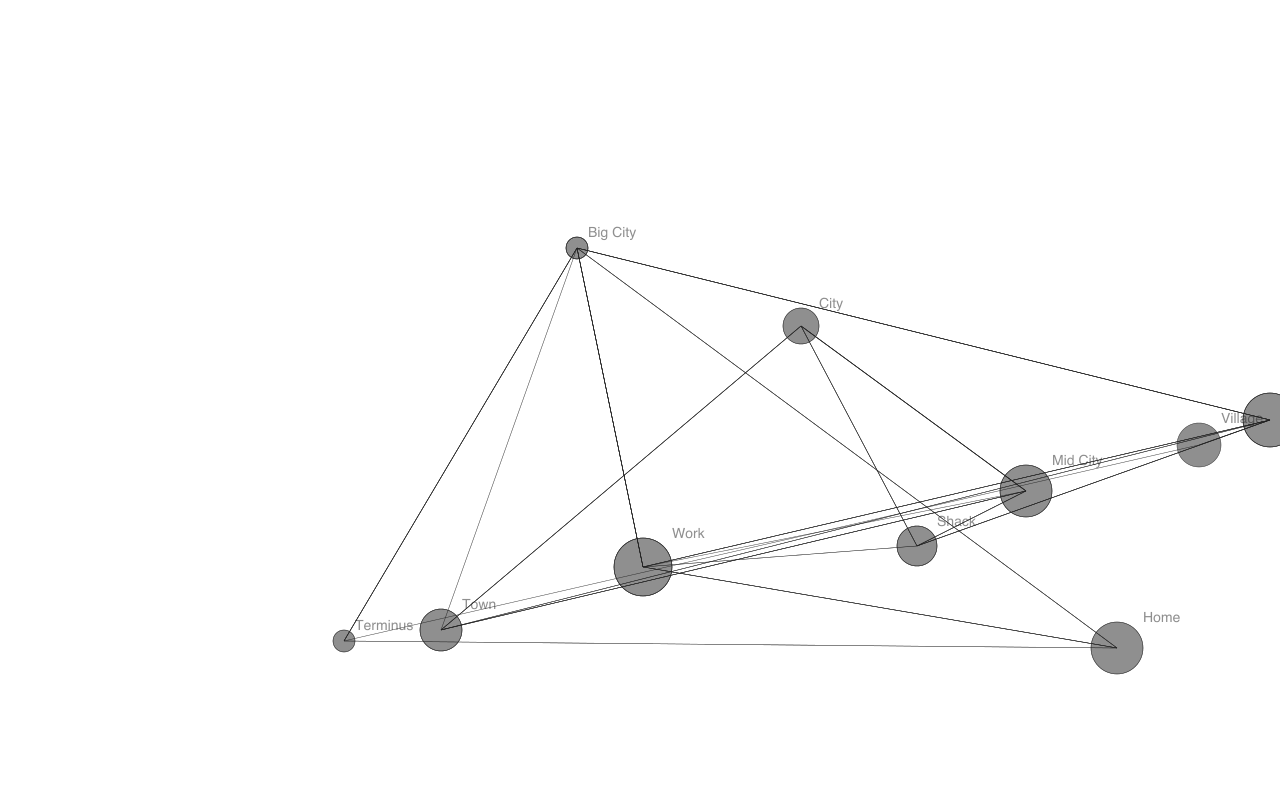
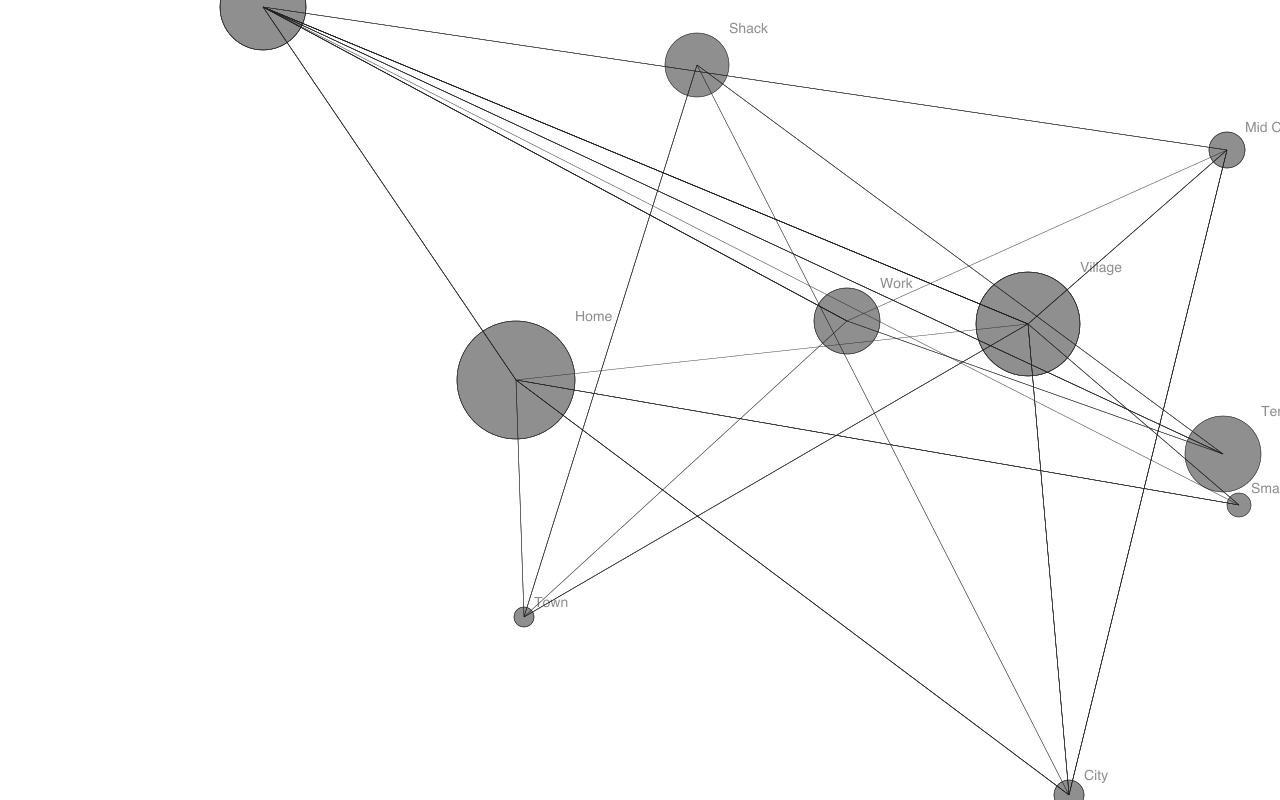
updates

diff --git a/lib/binary-tree.js b/lib/binary-tree.js
@@ -1,0 +1,161 @@
+var BinaryTree = function() {
+	this._root = null;
+};
+
+BinaryTree.prototype.add = function(value) {
+	var node = {
+		value: value,
+		left: null,
+		right: null
+	};
+	var current;
+
+	if (this._root === null) {
+		this._root = node;
+	} else {
+
+		while (true) {
+
+			current = this._root;
+
+			if (value < current.value) {
+				if (current.left === null) {
+					current.left = node;
+					break;
+				} else {
+					current = current.left;
+				}
+
+			} else if (value > current.value) {
+				if (current.right === null) {
+					current.right = node;
+					break;
+				} else {
+					current = current.right;
+				}
+			} else {
+				break;
+			}
+
+		}
+
+	}
+
+};
+BinaryTree.prototype.remove = function(value) {
+	var found = false;
+	var parent = null;
+	var current = this._root;
+	var childCount;
+	var replacement;
+	var replacementParent;
+
+	while (!found && current) {
+		if (value < current.value) {
+			parent = current;
+			current = current.left;
+		} else if (value > current.value) {
+			parent = current;
+			current = current.right;
+		} else {
+			found = true;
+		}
+
+		if (found) {
+			childCount = (current.left !== null ? 1 : 0) + (current.right !== null ? 1 : 0);
+			if (current === this._root) {
+				switch (childCount) {
+					case 0:
+						this._root = null;
+						break;
+					case 1:
+						this._root = (current.right === null ? current.left : current.right);
+						break;
+					case 2:
+						// 
+						break;
+				}
+			} else {
+				switch(childCount){
+					case 0:
+						if (current.value < parent.value) {
+							parent.left = null;
+						} else {
+							parent.right = null;
+						}
+						break;
+					case 1:
+						if (current.value < parent.value) {
+							parent.left = (current.left === null ? current.right : current.left);
+						} else {
+							parent.right = (current.left === null ? current.right : current.left);
+						}
+						break;
+					case 2:
+						break;
+				}
+			}
+		};
+	}
+};
+BinaryTree.prototype.contains = function(value) {
+	var found = false;
+	var current = this._root;
+
+	while (!found && current) {
+		if (value < current.value) {
+			current = current.left;
+		} else if (value > current.value) {
+			current = current.right;
+		} else {
+			found = true;
+		}
+	}
+
+	return found;
+};
+BinaryTree.prototype.traverse = function(process) {
+
+	function inOrder(node) {
+		if (node) {
+			if (node.left !== null) {
+				inOrder(node.left)
+			}
+
+			process.call(this, node);
+
+			if (node.right !== null) {
+				inOrder(node.right);
+			};
+
+		};
+	}
+
+	inOrder(this._root);
+
+};
+BinaryTree.prototype.size = function() {
+	var size = 0;
+
+	this.traverse(function(node) {
+		size++;
+	});
+
+	return size;
+};
+
+BinaryTree.prototype.toArray = function() {
+	var results = [];
+
+	this.traverse(function(node) {
+		results.push(node.value);
+	});
+
+	return results;
+};
+
+BinaryTree.prototype.toString = function() {
+	return this.toArray().toString();
+};
+
+module.exports = BinaryTree;

diff --git a/createMap.js b/createMap.js
@@ -25,12 +25,16 @@ var dims = {
 	height: 800
 };
 
+
+var BinaryTree = require('./lib/binary-tree');
+
 for (var route in routes){
 	if (!routes.hasOwnProperty(route)) {
 		continue;
 	};
 
 	var location = routes[route];
+
 	ctx.fillStyle = 'rgba(32,32,32,0.5)';
 	ctx.beginPath();
 	ctx.arc(location.location.x, location.location.y, location.size, 0, Math.PI*2, true); 	

diff --git a/lib/Location.js b/lib/Location.js
@@ -2,7 +2,7 @@
 
 var Location = function(name, x, y, size){
 	this.name = name;
-	this.size = size || Math.floor(Math.random()*20)+10;
+	this.size = size || Math.floor(Math.random()*50)+10;
 	this.location = {
 		x: x || Math.floor(Math.random()*1280),
 		y: y || Math.floor(Math.random()*800)
